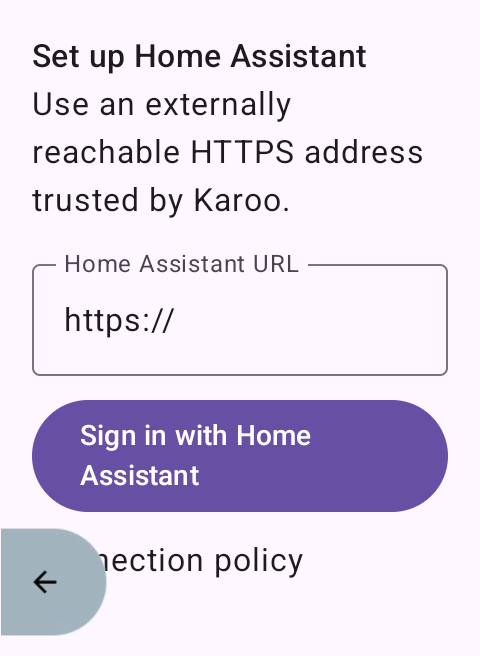
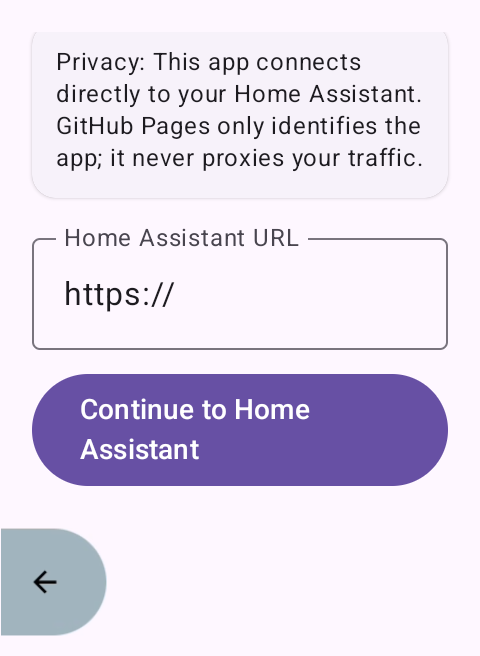
Keep setup actions clear on Karoo

diff --git a/app/src/main/kotlin/com/karoohass/screens/MainScreen.kt b/app/src/main/kotlin/com/karoohass/screens/MainScreen.kt
@@ -282,15 +282,22 @@ private fun HomeAssistantIcon(
     var confirmation by remember { mutableStateOf<String?>(null) }
     var currentPin by remember { mutableStateOf("") }
     var showEraseConfirmation by remember { mutableStateOf(false) }
-    LazyColumn(Modifier.fillMaxSize().padding(16.dp), verticalArrangement = Arrangement.spacedBy(12.dp)) {
+    LazyColumn(
+        modifier = Modifier.fillMaxSize().padding(16.dp),
+        contentPadding = PaddingValues(bottom = BackControlSize),
+        verticalArrangement = Arrangement.spacedBy(12.dp),
+    ) {
         item {
             Text("Set up Home Assistant", style = MaterialTheme.typography.titleMedium)
-            Text("Use an externally reachable HTTPS address trusted by Karoo.")
+            Text(
+                "Enter a trusted, externally reachable HTTPS address.",
+                style = MaterialTheme.typography.bodySmall,
+            )
         }
         item {
             ElevatedCard(Modifier.fillMaxWidth()) {
                 Text(
-                    "Privacy: Home Assistant traffic goes directly between this Karoo and the address above. michalchecinski.github.io only identifies this app to Home Assistant; after you approve sign-in, Home Assistant returns directly to Karoo HASS.",
+                    "Privacy: This app connects directly to your Home Assistant. GitHub Pages only identifies the app; it never proxies your traffic.",
                     modifier = Modifier.padding(12.dp),
                     style = MaterialTheme.typography.bodySmall,
                 )
@@ -386,16 +393,18 @@ private fun HomeAssistantIcon(
         item { error?.let { Text(it, color = MaterialTheme.colorScheme.error) } }
         item { confirmation?.let { Text(it, color = MaterialTheme.colorScheme.primary) } }
         item { state.message?.let { Text(it, color = MaterialTheme.colorScheme.primary) } }
-        item {
-            Button(
-                onClick = { showEraseConfirmation = true },
-                modifier = Modifier.fillMaxWidth(),
-                colors =
-                    ButtonDefaults.buttonColors(
-                        containerColor = MaterialTheme.colorScheme.errorContainer,
-                        contentColor = MaterialTheme.colorScheme.onErrorContainer,
-                    ),
-            ) { Text("Forgot PIN / erase this account") }
+        if (state.settings.origin != null) {
+            item {
+                Button(
+                    onClick = { showEraseConfirmation = true },
+                    modifier = Modifier.fillMaxWidth(),
+                    colors =
+                        ButtonDefaults.buttonColors(
+                            containerColor = MaterialTheme.colorScheme.errorContainer,
+                            contentColor = MaterialTheme.colorScheme.onErrorContainer,
+                        ),
+                ) { Text("Forgot PIN / erase this account") }
+            }
         }
     }
     if (showEraseConfirmation) {

diff --git a/docs/current-implementation.md b/docs/current-implementation.md
@@ -106,8 +106,9 @@ useful record of the intended scope but does not capture all later UX changes.
 - A whole-app session remains unlocked while moving between in-app screens and
   locks again when the app leaves the foreground or starts in a protected
   configuration.
-- **Forgot PIN / erase this account** is a full-width destructive button. It
-  always presents a cancelable confirmation dialog before erasing data.
+- After an account is configured, **Forgot PIN / erase this account** is a
+  full-width destructive button. It always presents a cancelable confirmation
+  dialog before erasing data.
 
 ## Navigation and visual conventions
 
